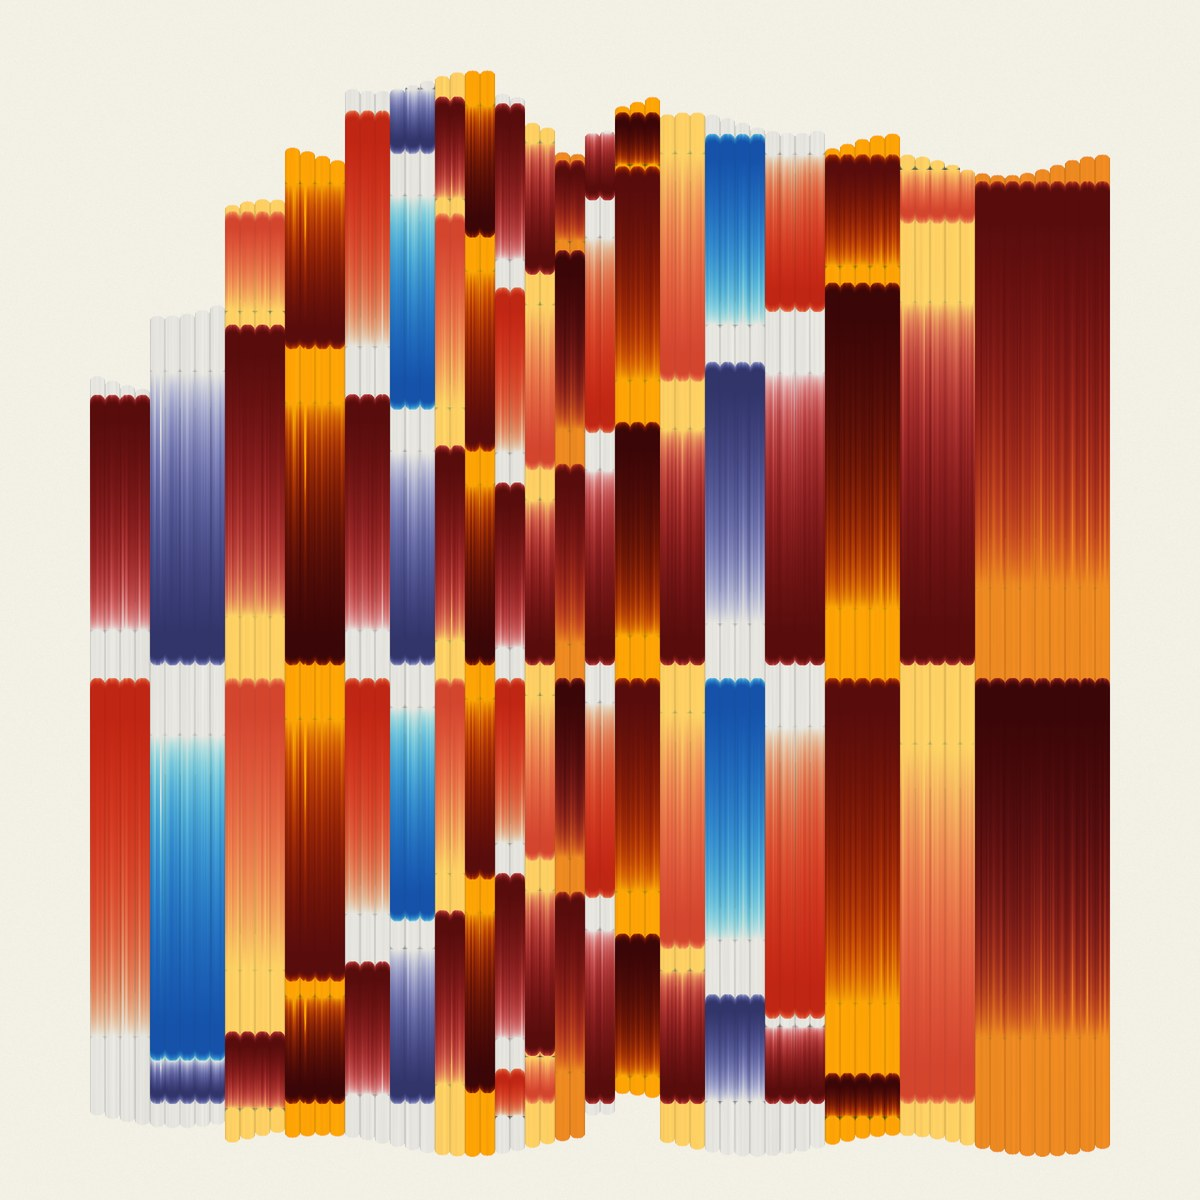
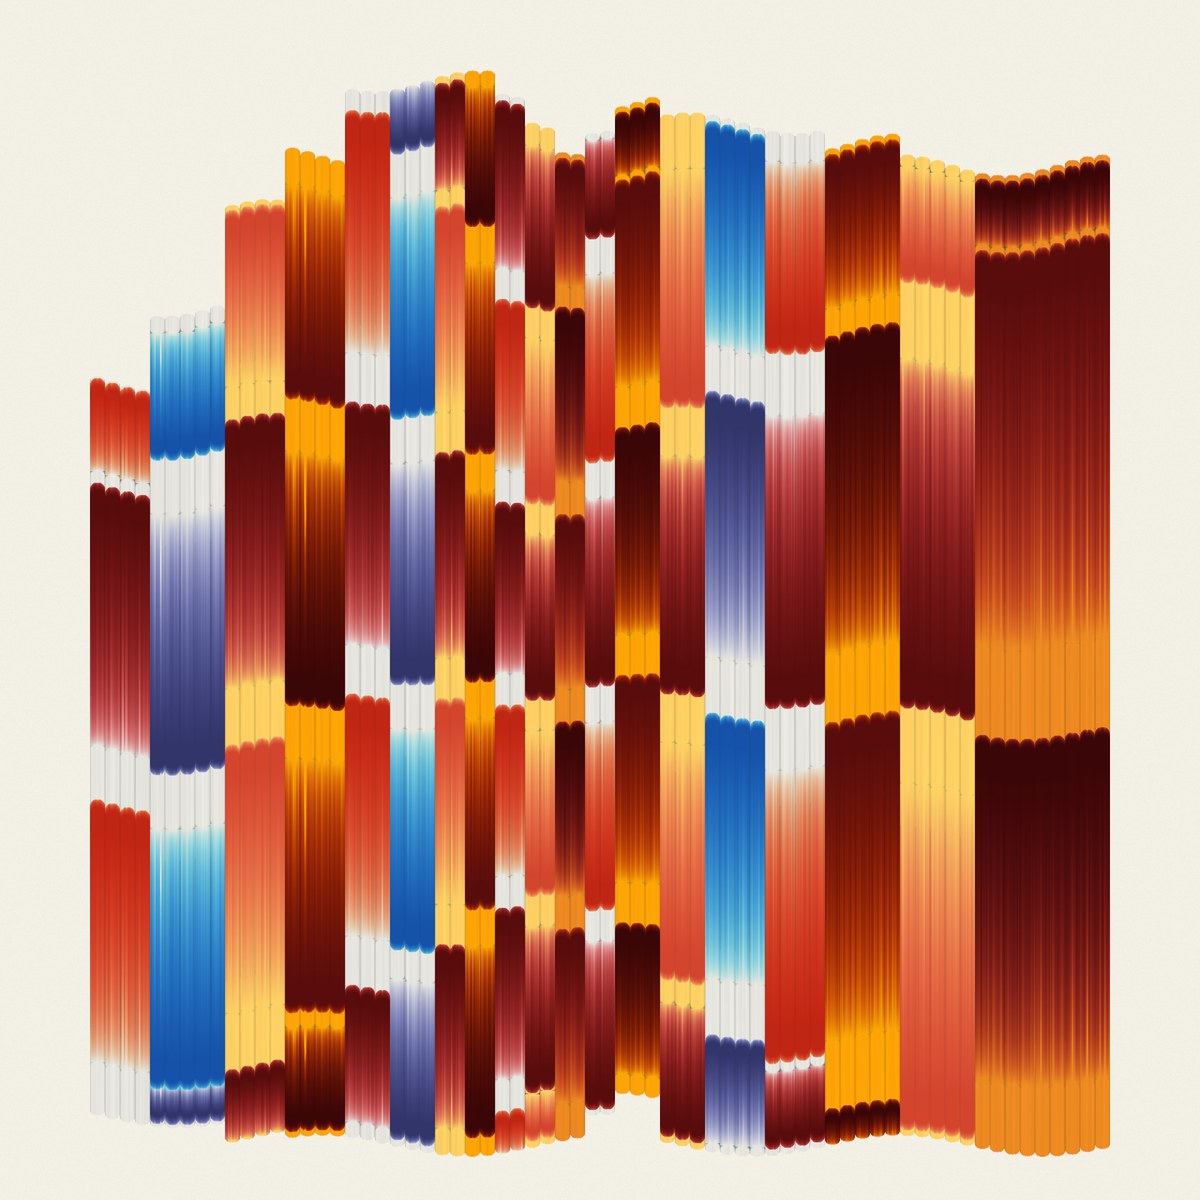
HOLO v.2: one rhythm for both runs
Run 2's bands laid on every leg between its own ends, as run 1's puddles
are, instead of cut flat to a slat's shortest leg. README and ARTIST.md
keep the rule: no even frame, one rhythm for both runs.

diff --git a/app/src/holoplan.js b/app/src/holoplan.js
@@ -37,6 +37,18 @@ export function puddlesAlong(y0, y1, gap = HOLO.gap, inset = HOLO.inset) {
 // a shadow's dabs by its band's length: one every `lasts` mm of band, 1 … the composition's most (the study's: 55 mm a dab on FAN, 45 on TIERS)
 export const dabsOf = (pic, band, lasts) => lasts ? Math.max(1, Math.min(HOLO.maxDabs[pic.composition] ?? 3, Math.round((band.y1 - band.y0) / lasts))) : band.dabs;
 
+// One rhythm for both runs (the owner, 2026-11-14, of v.2: "if the drops in run 1 are even in a row, then in run 2 they are even; … keep the
+// dance in the second layer"; README): a v.2's bands are its composition's, in its base frame (pic.base, the v.1 field's height), laid on every
+// leg between its own ends as run 1's puddles are — stretched or pressed with the leg, the stroke's end never past it; a dab by its length there
+// (est., the study's 55 mm a dab on FAN, 45 on TIERS). v.1, no base: the band as it is.
+const warpOn = (pic, g) => { const B = pic.base; return y => g.y0 + (y - B.y0) * (g.y1 - g.y0) / (B.y1 - B.y0); };
+export function bandOn(pic, g, band) {
+  if (!pic.base) return band;
+  const w = warpOn(pic, g);
+  return { ...band, y0: w(band.y0), y1: w(band.y1), start: w(band.start), end: Math.min(g.y1, Math.max(g.y0, w(band.end))) };
+}
+export const dabsOn = (pic, band) => Math.max(1, Math.min(HOLO.maxDabs[pic.composition] ?? 3, Math.round((band.y1 - band.y0) / pic.est.a_dab_lasts)));
+
 // the run's list: run 1's jars light to dark, then run 2's, on the dry first; a jar in both runs a line in each
 export function seqOf(pic) {
   const by = (a, b) => b.L - a.L;
@@ -59,9 +71,9 @@ export function workOf(pic, line, o = {}) {
       items.push({ puddles: ys.map(y => ({ x: g.x, y, dabs: 1 })), stroke: { x: g.x, pts: [[g.x, a], [g.x, b]], fade: null } });
     }
   } else {
-    for (const g of legs) for (const band of g.slat.bands) {
-      if (band.jar !== line.jar) continue;
-      const d = dabsOf(pic, band, lasts);
+    for (const g of legs) for (const band0 of g.slat.bands) {
+      if (band0.jar !== line.jar) continue;
+      const band = bandOn(pic, g, band0), d = pic.base && !lasts ? dabsOn(pic, band) : dabsOf(pic, band, lasts);
       items.push({ puddles: [{ x: g.x, y: band.start, dabs: d }], stroke: { x: g.x, pts: [[g.x, band.start], [g.x, band.end]], fade: { full: pic.est.shadow_full ?? 0, band } } });
     }
   }

diff --git a/app/test/holoplan.test.js b/app/test/holoplan.test.js
@@ -1,7 +1,7 @@
 import test from 'node:test';
 import assert from 'node:assert/strict';
 import fs from 'node:fs';
-import { HOLO, HOLO_LIB, legsOf, puddlesY, dabsOf, seqOf, workOf, planOf, movesOf, shadeAt, placeRange, contourHolo, besideOf, markCells, MARKS_BESIDE } from '../src/holoplan.js';
+import { HOLO, HOLO_LIB, legsOf, puddlesY, dabsOf, seqOf, workOf, planOf, movesOf, shadeAt, placeRange, contourHolo, besideOf, markCells, MARKS_BESIDE, bandOn } from '../src/holoplan.js';
 
 // HOLO (HOLO-Claude/HOLO.md, 2026-11-12): cloud-Claude's three pictures in the owner's jars, two runs of puddles laid, then dragged.
 const load = id => JSON.parse(fs.readFileSync(new URL(`../holo/${id}.json`, import.meta.url)));
@@ -182,6 +182,16 @@ test('v.2, ragged edges (the owner, 2026-11-14): every v.1 kept, its v.2 after i
     // DRAW BW's outline round the ragged edge: every point of it on a leg's end or side
     const O = contourHolo(v2, { outline: true });
     assert.ok(O.lines.length >= 1 && O.mm > 2 * ((f.x1 - f.x0) + (f.y1 - f.y0)), `${id}-v2: the outline longer than the box's, ${O.mm}`);
+  }
+  // one rhythm for both runs: a band sits on every leg of its slat at the same share of the leg's own length, as run 1's puddles do
+  for (const id of ['holo-40-warm-v2', 'holo-60-tiers-v2']) {
+    const p = load(id), L = legsOf(p), sl = p.slats.find(s => s.bands.length && s.legs > 2 && new Set(s.ends.map(e => e[1])).size > 1);
+    const own = L.filter(g => g.slat === sl), share = (g, y) => (y - g.y0) / (g.y1 - g.y0);
+    for (const b of sl.bands) {
+      const at = own.map(g => share(g, bandOn(p, g, b).start));
+      assert.ok(Math.max(...at) - Math.min(...at) < 1e-9, `${id}: a band's start at one share of every leg, ${at}`);
+      const tops = own.map(g => bandOn(p, g, b).y1); assert.ok(new Set(tops.map(v => v.toFixed(3))).size > 1, 'its edge dances with the legs\' ends');
+    }
   }
   // v.1 as it was: every leg the field's whole height
   const v1 = load('holo-40-warm'); assert.ok(legsOf(v1).every(g => g.y0 === v1.field.y0 && g.y1 === v1.field.y1));

diff --git a/HOLO-Claude/generator/holo_v2.py b/HOLO-Claude/generator/holo_v2.py
@@ -11,8 +11,11 @@ Every leg its own ends, top and bottom apart (his sketch: blocks stepped over ea
   - blocks: every slat its ends stepped from its neighbour's, a random walk of whole steps, now and then a jump;
   - a wave along the edge, through the slats, a few mm;
   - the sides: the outer slats shorter, a staircase in, each side its own.
-Run 1 lays every leg's puddles along its own length and drags it end to end; run 2's shadows keep to the core all a slat's legs share (a band
-cut by it, under 12 mm none). The 60 × 60s 520 mm across (v.1 560 and 540), so that MARKS fit on the canvas by the field (README's canon).
+Run 1 lays every leg's puddles along its own length and drags it end to end. One rhythm for both runs (the owner, the same day, of the first
+v.2, its run-2 bands flat across a slat while run 1's puddles danced with the legs' ends: "if the drops in run 1 are even in a row, then in run 2
+they are even … keep the dance in the second layer"; README): run 2's bands are the composition's, in its base frame (the v.1 field's height),
+laid on every leg between its own ends, the stroke's end never past it, a dab by its length there — holoplan.js's bandOn and dabsOn, the same
+numbers. The 60 × 60s 520 mm across (v.1 560 and 540), so that MARKS fit on the canvas by the field (README's canon).
 
 python holo_v2.py [id …]     (a venv with numpy, pillow and scipy; the working directory this one; ids the v.1 ones: holo-40-warm …)
 """
@@ -41,7 +44,7 @@ SUB = {'holo-40-warm': 'the fan, warm', 'holo-60-blue': 'the fan, blue', 'holo-6
 
 
 def ragged(st, c):
-    """every leg its ends (study's mm, y down): [top, bottom]; a slat's core, where all its legs are"""
+    """every leg its ends (study's mm, y down): [top, bottom]"""
     rng = np.random.default_rng(c['seed']); n = len(st.slats); m, out, step, deep = c['margin'], c['out'], c['step'], c['deep']
 
     def walk():
@@ -73,30 +76,40 @@ def ragged(st, c):
                 mid = (t + b) / 2; t, b = mid - 0.2 * (st.H - 2 * m), mid + 0.2 * (st.H - 2 * m)
             ends.append((round(float(t), 1), round(float(b), 1)))
         sl['ends'] = ends
-        sl['core'] = (max(e[0] for e in ends), min(e[1] for e in ends))
     for leg in st.legs:
         sl = leg['slat']; leg['ends'] = sl['ends'][leg['n'] - sl['i0']]
 
 
 def cut(st):
-    """run 1's puddles along every leg's own length; run 2's bands within its slat's core, as the study lays them"""
-    tiers = st.comp == 'tiers'
+    """run 1's puddles along every leg's own length, as the study lays them along the field"""
     for leg in st.legs:
         sl = leg['slat']; t, b = leg['ends']
         if not sl['light']: leg['light'] = []; continue
         g = sl['light'][0][1]; k = int(np.ceil((b - t - 8) / st.gap)) + 1
         leg['light'] = [(float(y), g, 1) for y in np.linspace(t + 4, b - 4, k)]
-    for sl in st.slats:
-        ct, cb = sl['core']; dark = []
-        for start, c, dose, blen, down, a, b in sl['dark']:
-            a2, b2 = max(a, ct), min(b, cb)
-            if b2 - a2 < 12: continue
-            L = b2 - a2
-            dose = int(np.clip(round(L / 45), 1, 4)) if tiers else int(np.clip(round(L / 55), 1, 3))
-            start = a2 + 5 if down else b2 - 5
-            reach = min(st.last * L, (cb - start) if down else (start - ct))   # never past the core's end, where some leg ends
-            dark.append((start, c, dose, reach / st.last, down, a2, b2))
-        sl['dark'] = dark
+
+
+jsround = lambda v: int(np.floor(v + 0.5))                             # JavaScript's Math.round, not Python's to-even
+
+
+def band_on(p, ends, band):
+    """holoplan.js's bandOn and dabsOn, number for number: the band on a leg between its ends, y up → (band, its dabs)"""
+    B = p['base']; y0, y1 = ends
+    w = lambda y: y0 + (y - B['y0']) * (y1 - y0) / (B['y1'] - B['y0'])
+    q = dict(band, y0=w(band['y0']), y1=w(band['y1']), start=w(band['start']), end=min(y1, max(y0, w(band['end']))))
+    return q, max(1, min(4 if p['composition'] == 'tiers' else 3, jsround((q['y1'] - q['y0']) / p['est']['a_dab_lasts'])))
+
+
+def warp_dark(st, p):
+    """every leg's run 2 from the plan's numbers, in the study's frame (y down) for its render: (start, jar, dabs, blen, down, a, b)"""
+    Hh = st.H
+    for leg in st.legs:
+        s = p['slats'][st.slats.index(leg['slat'])]; e = s['ends'][leg['n'] - leg['slat']['i0']]; dark = []
+        for band in s['bands']:
+            q, d = band_on(p, e, band)
+            down = band['way'] == 'down'
+            dark.append((Hh - q['start'], band['hex'], d, abs(q['end'] - q['start']) / st.last, down, Hh - q['y1'], Hh - q['y0']))
+        leg['dark'] = dark
 
 
 def render(st, stage, seed=7):
@@ -122,6 +135,7 @@ def render(st, stage, seed=7):
                 edge = np.ones(tw); edge[:2] = 0.82; edge[-2:] = 0.82; edge[2] = edge[-3] = 1.06
                 band = prof[:, None, :] * (streak[None, :, None] * (1 + drift[..., None])) * edge[None, :, None]
             if stage == 'r2':
+                leg['slat']['dark'] = leg['dark']                     # this leg's own bands, between its ends
                 sh = st.shadow(leg, n)
                 cap = (capmm * 2.2 / 1.6 * PPM).astype(int)
                 sft = lambda v, k: np.concatenate([np.zeros(k), v[:len(v) - k]]) if k > 0 else (np.concatenate([v[-k:], np.zeros(-k)]) if k < 0 else v)
@@ -138,7 +152,7 @@ def render(st, stage, seed=7):
     if stage in ('p1', 'p2'):
         d = ImageDraw.Draw(pil)
         for leg in st.legs:
-            pts = [(y, c, 1) for y, c, _ in leg['light']] if stage == 'p1' else [(q[0], q[1], q[2]) for q in leg['slat']['dark']]
+            pts = [(y, c, 1) for y, c, _ in leg['light']] if stage == 'p1' else [(q[0], q[1], q[2]) for q in leg['dark']]
             for y, c, dose in pts:
                 rx, ry = 2.0, 2.6 + 1.1 * dose
                 colr = tuple(int(v * 255) for v in H.l2s(H.hexlin(c))); X, Y = leg['x'] * PPM, y * PPM
@@ -147,24 +161,30 @@ def render(st, stage, seed=7):
 
 
 def plan(st, pid, title):
-    """the study's plan, every slat its legs' ends, the field the box round them all; the counts by every leg's own puddles"""
+    """the study's plan, its bands in the base frame (the v.1 field's height, `base`), every slat its legs' ends, the field the box round
+    them all; the counts by every leg's own puddles and its warped bands"""
     up = lambda y: round(st.H - y, 1)
     for sl in st.slats: sl['light'] = sl['light'][:1] if sl['light'] else []   # the ground's jar, for the study's own plan
     p = st.plan(pid, title)
-    jars = {}
-    for leg in st.legs:
-        for _, c, _ in leg['light']: jars.setdefault(c, [0, 0])[0] += 1
-        for q in leg['slat']['dark']: jars.setdefault(q[1], [0, 0])[1] += q[2]
-    for q in p['jars']: q['run1_dabs'], q['run2_dabs'] = jars.get(q['hex'], [0, 0])
-    p['jars'] = [q for q in p['jars'] if q['run1_dabs'] or q['run2_dabs']]
+    p['base'] = dict(y0=up(st.y1), y1=up(st.y0))
     for s, sl in zip(p['slats'], st.slats):
         s['ends'] = [[up(b), up(t)] for t, b in sl['ends']]         # y up: [bottom, top]
         s['puddles_y'] = []
+        for b in s['bands']: b['hex'] = b['jar']
+    jars = {}
+    for leg in st.legs:
+        for _, c, _ in leg['light']: jars.setdefault(c, [0, 0])[0] += 1
+    run2_puddles = run2_dabs = 0
+    for s, sl in zip(p['slats'], st.slats):
+        for e in s['ends']:
+            for band in s['bands']:
+                _, d = band_on(p, e, band); jars.setdefault(band['jar'], [0, 0])[1] += d; run2_puddles += 1; run2_dabs += d
+    for q in p['jars']: q['run1_dabs'], q['run2_dabs'] = jars.get(q['hex'], [0, 0])
+    p['jars'] = [q for q in p['jars'] if q['run1_dabs'] or q['run2_dabs']]
     top = min(l['ends'][0] for l in st.legs); bot = max(l['ends'][1] for l in st.legs)
     p['field'].update(y0=up(bot), y1=up(top))
     line = sum(l['ends'][1] - l['ends'][0] for l in st.legs)
-    p['count'].update(run1_dabs=sum(len(l['light']) for l in st.legs), run2_puddles=sum(len(l['slat']['dark']) for l in st.legs),
-                      run2_dabs=sum(q[2] for l in st.legs for q in l['slat']['dark']), line_m=round(line / 1000, 1))
+    p['count'].update(run1_dabs=sum(len(l['light']) for l in st.legs), run2_puddles=run2_puddles, run2_dabs=run2_dabs, line_m=round(line / 1000, 1))
     return p
 
 
@@ -174,9 +194,10 @@ def make(pid, out=OUT, renders=True):
     ragged(st, c); cut(st)
     vid = pid + '-v2'
     p = plan(st, vid, '')
+    warp_dark(st, p)
     for s in p['slats']:
         s['ground'] = byhex[s['ground']] if s['ground'] else None
-        for b in s['bands']: b['jar'] = byhex[b['jar']]
+        for b in s['bands']: b['jar'] = byhex[b['jar']]; del b['hex']
     src = {}
     for k, v in J.MAP[pid].items(): src.setdefault(v, []).append(k)
     jars = []

diff --git a/README.md b/README.md
@@ -319,6 +319,25 @@ the machine dips as in color_marks.png — this is the new canon. All the new pi
 first, else on it); on HOLO since 2026-11-14 — the slips on the screen, the marks in the plan and ▶ Play. RUN 1 · RUN 2 still
 send nothing.
 
+## A picture's edges and its rhythm — HOLO's v.2 (canon)
+
+The owner, 2026-11-14, of the first three HOLO pictures (`HOLO-Claude/opm-n-screen.png`, `opm-w-screen.png`, his sketch
+`IMG_2907.jpg`): "the graphics live in a banal square, which still has to be laid evenly on the canvas, debugged as if it were a
+print on a T-shirt … my works have no four even edges, they sit in the middle of the picture and go out in rays. So if we do not hit
+the centre to the millimetre, nothing terrible: it will be the artist's intent." Then, of the first v.2 (`Screenshot 2026-11-14 at
+4.36.18 PM.png`, `4.30.38 PM.png`): "be consistent and remember how your first tab is made: one rhythm for two runs. If the drops are
+even in a row in the first run, then in the second they are even … in the first run the drops begin to 'dance'. A more complex rhythm
+appears, which makes the picture a work of art, not algorithmic rubbish from a UI/UX designer making iPhone wallpapers. But be
+consistent then! Keep the dance in the second layer — for now it is a 'relic' of v.1."
+
+1. **No even frame.** A picture's edges are ragged — blocks stepped over each other, a wave along them, a staircase in at a corner
+   or two — so that a canvas laid a few mm off reads as intent, and the work is not shut in a square.
+2. **One rhythm for both runs.** Whatever moves run 1's puddles moves run 2's too: a leg's every puddle, band and shadow laid
+   between its own ends by the same measure, stretched or pressed with the leg. No layer keeps the old even grid while another
+   dances.
+
+`holoplan.js` (`legsOf`, `puddlesAlong`, `bandOn`, `dabsOn`), `HOLO-Claude/generator/holo_v2.py`. Every v.1 kept; a v.2 after it.
+
 ## Working rules
 
 - **The artist decides what to paint. The brush determines how it can be

diff --git a/CHANGELOG.md b/CHANGELOG.md
@@ -5,6 +5,13 @@ Machine measurements stay in RUBENS: `../Rubens/CALIBRATION.md`.
 
 ## After v.1.2.3 — 2026-11-10
 
+- **HOLO v.2: one rhythm for both runs** (2026-11-14; the owner, `HOLO-Claude/Screenshot 2026-11-14 at 4.36.18 PM.png`, run 1's puddles
+  dancing with the ragged ends, and `4.30.38 PM.png`, run 2's band edges flat across a slat, arrows up to the legs' ends: "be consistent …
+  one rhythm for two runs … keep the dance in the second layer — for now it is a 'relic' of v.1"). A v.2's bands are its composition's, in
+  its base frame (`base`, the v.1 field's height), laid on every leg between its own ends as run 1's puddles are, the stroke's end never past
+  it, a dab by its length there (`bandOn`, `dabsOn`); the generator renders run 2 by the same numbers (`band_on`, JavaScript's rounding). No
+  more cutting a slat's shadows to its shortest leg. Written into README (a picture's edges and its rhythm, canon) and the artist's
+  `ARTIST.md` (how its pictures are made — learned). Tests; checked in headless Chrome.
 - **HOLO v.2: ragged edges, every picture's v.2 after its v.1** (2026-11-14; the owner, `HOLO-Claude/opm-n-screen.png`, `opm-w-screen.png`,
   his sketch `IMG_2907.jpg`: "the graphics live in a banal square, which still has to be laid evenly on the canvas, debugged as if it were a
   print on a T-shirt … my works have no four even edges … if we do not hit the centre to the millimetre, nothing terrible: it will be the

diff --git a/HOLO-Claude/artist/ARTIST.md b/HOLO-Claude/artist/ARTIST.md
@@ -67,6 +67,22 @@ Posts are drawn from these, and from nothing that is not so.
 - It marks every number it has not measured `est.`
 - About a thousand touches make a 40 × 40.
 
+## How its pictures are made — learned
+
+Lessons from @soumkine, kept here so every session starts from them. Newest first.
+
+- **2026-11-14 · One rhythm for both runs.** The first v.2 let run 1's puddles dance with the ragged
+  ends while run 2's shadows stayed on the old even grid. He: "be consistent … one rhythm for two runs.
+  If the drops are even in a row in the first run, then in the second they are even … keep the dance in
+  the second layer." Now a leg's every puddle and shadow is laid between its own ends by one measure.
+  The dance, he said, is what "makes the picture a work of art, not algorithmic rubbish from a UI/UX
+  designer making iPhone wallpapers".
+- **2026-11-14 · No even frame.** The first three sat in "a banal square" that has to be laid on the
+  canvas to the millimetre, "as if it were a print on a T-shirt". His own works sit in the middle and go
+  out in rays. Ragged edges — blocks stepped over each other, a wave, a staircase at a corner — make a
+  canvas laid a few mm off read as intent, and the work is not shut in a frame. The first three are kept;
+  the new ones are v.2 (`app/holo/*-v2.json`, `../generator/holo_v2.py`).
+
 ## The voice
 
 - First person, plain, short. English.
